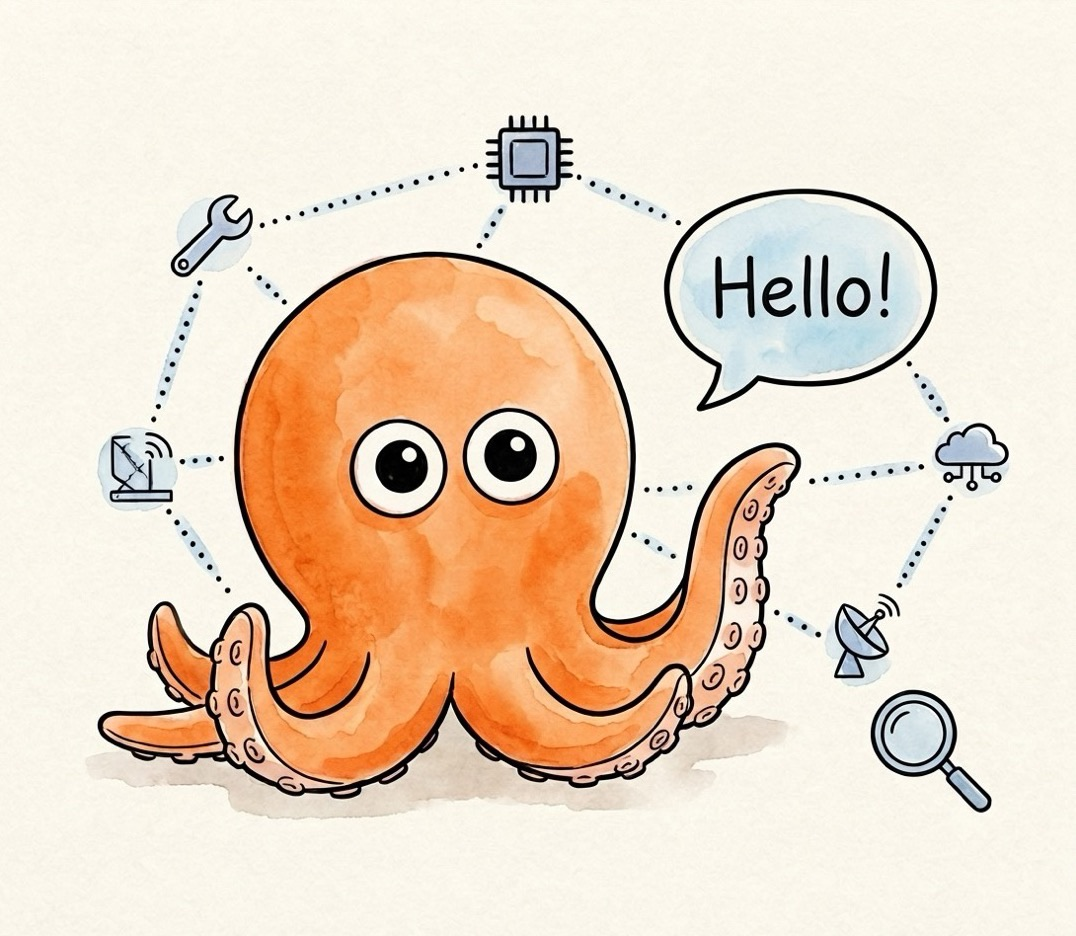
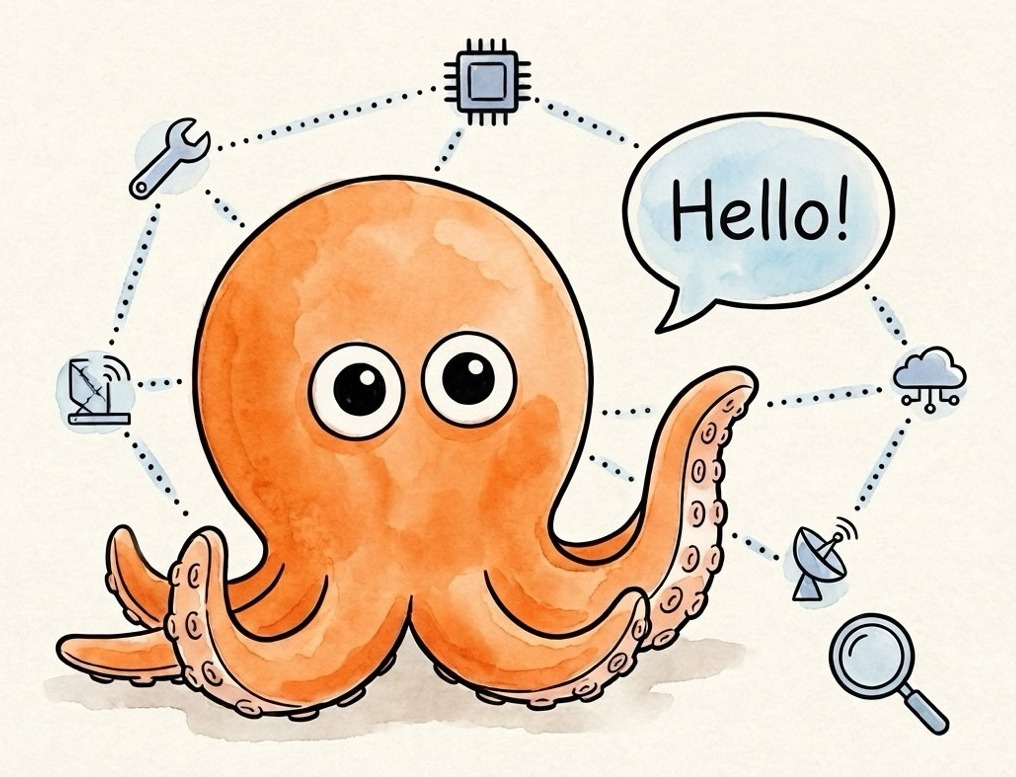
Fix blank space around the Candice illustration
Two separate causes, both visible as dead cream space above/below the
octopus on mobile:

1. The source image had a lot of empty canvas margin baked in (the
   illustration only used the middle ~86% of its own frame). Cropped
   candice-hello.jpg/.webp tight to the artwork and updated the img's
   width/height attributes to match (1016x777, was 1076x936).

2. .rail had no align-items, so flexbox's default 'stretch' forced every
   card to match the height of the tallest one (Pokémon Agents, now taller
   from its device frame + longer copy). Candice's own content didn't fill
   that height, and align-content:stretch on its grid spread the leftover
   space into both grid rows, centering the image in a track ~220px taller
   than it needed — a gap above it and a bigger one below, before the
   heading. align-items:flex-start on .rail: each card now sizes to its
   own content, since they're viewed one at a time via scroll-snap, not
   side by side as equal-height columns.

Removed the stale mobile .fcard-media max-width:260px/justify-self:start
cap too — same 'let media fill its column' principle as the desktop fix
earlier, though at this card's current content width it wasn't actually
the binding constraint.

Verified all three cards at 390/1280, confirmed grid rows now match
content exactly (189.66/326.06px, zero padding) and dot-navigation still
scrolls correctly.

diff --git a/index.html b/index.html
@@ -151,7 +151,13 @@
      third of a wide window empty. The paragraph keeps its own 56ch cap, so
      lines stay readable while the card itself fills the space. */
   .rail-wrap { max-width:var(--featured-max); margin:0 auto; }
-  .rail { display:flex; gap:clamp(14px,2vw,24px); overflow-x:auto; scroll-snap-type:x mandatory;
+  /* Cards are viewed one at a time via scroll-snap, not side by side as equal-height
+     columns — so flex's default align-items:stretch was forcing every card to match
+     the tallest one (Pokémon Agents, with its device frame and longer copy). A shorter
+     card's own grid rows then absorbed that slack via align-content:stretch, shoving
+     its image away from both its heading and the top of the card. align-items:start
+     lets each card hug its own content instead. */
+  .rail { display:flex; align-items:flex-start; gap:clamp(14px,2vw,24px); overflow-x:auto; scroll-snap-type:x mandatory;
           scroll-padding-inline:var(--gutter); padding:2px var(--gutter) 4px;
           scrollbar-width:none; -ms-overflow-style:none; -webkit-overflow-scrolling:touch; }
   .rail::-webkit-scrollbar { display:none; }
@@ -256,7 +262,7 @@
   }
   @media (max-width: 820px) {
     .fcard { grid-template-columns:1fr; gap:clamp(18px,4vw,28px); }
-    .fcard-media { max-width:260px; order:-1; justify-self:start; }
+    .fcard-media { order:-1; }
     .fcard h2 { max-width:none; }
   }
 
@@ -402,7 +408,7 @@
           <div class="fcard-media">
             <picture>
               <source srcset="assets/candice-hello.webp" type="image/webp" />
-              <img src="assets/candice-hello.jpg" width="1076" height="936" loading="lazy" decoding="async"
+              <img src="assets/candice-hello.jpg" width="1016" height="777" loading="lazy" decoding="async"
                    alt="Watercolour of Candice as an orange octopus saying Hello, her arms reaching out to a chip, a wrench, a cloud, a dish and a magnifier" />
             </picture>
           </div>
